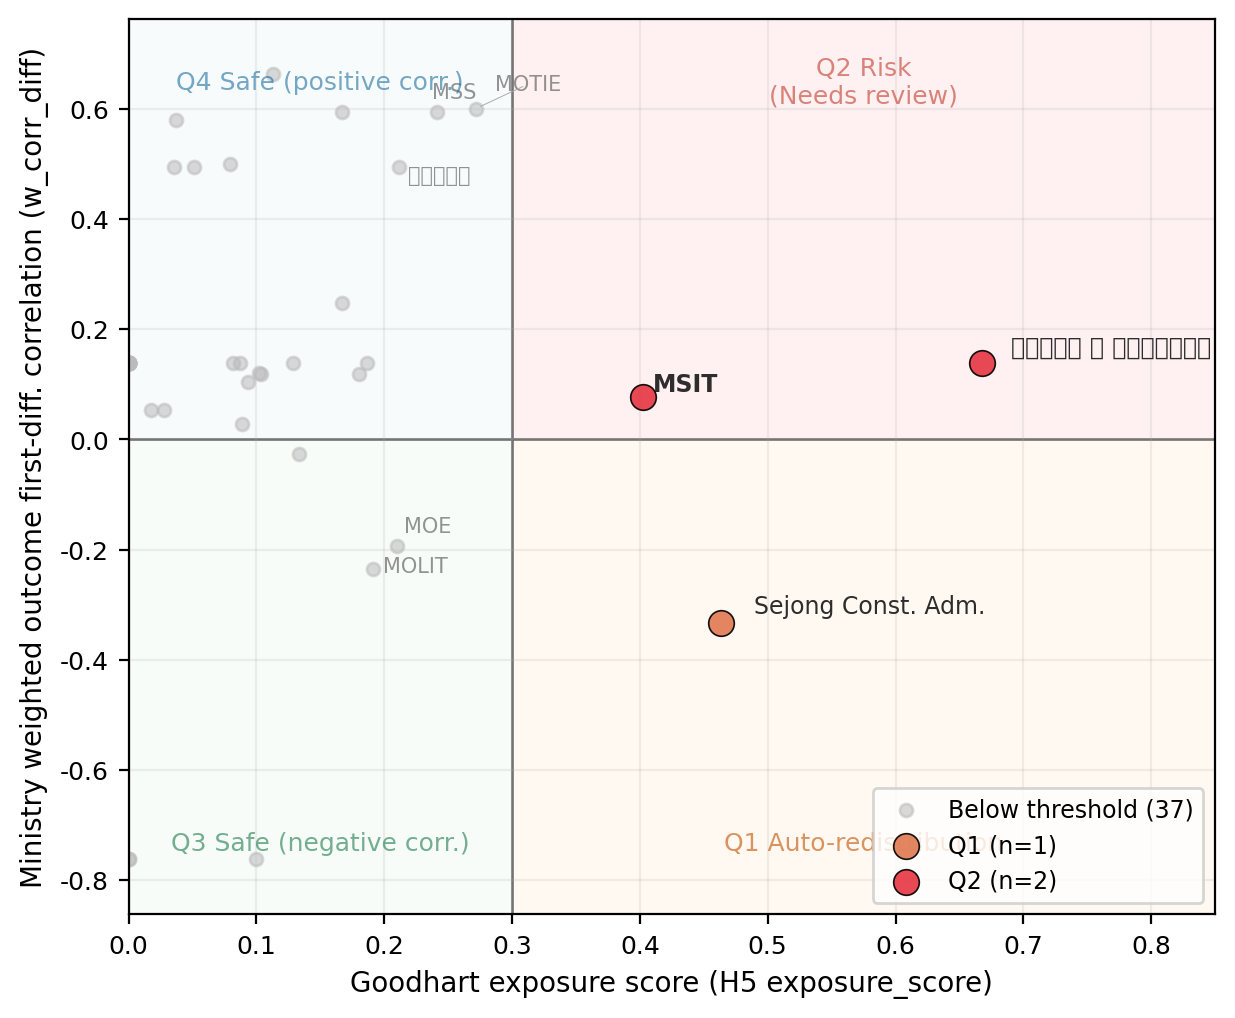
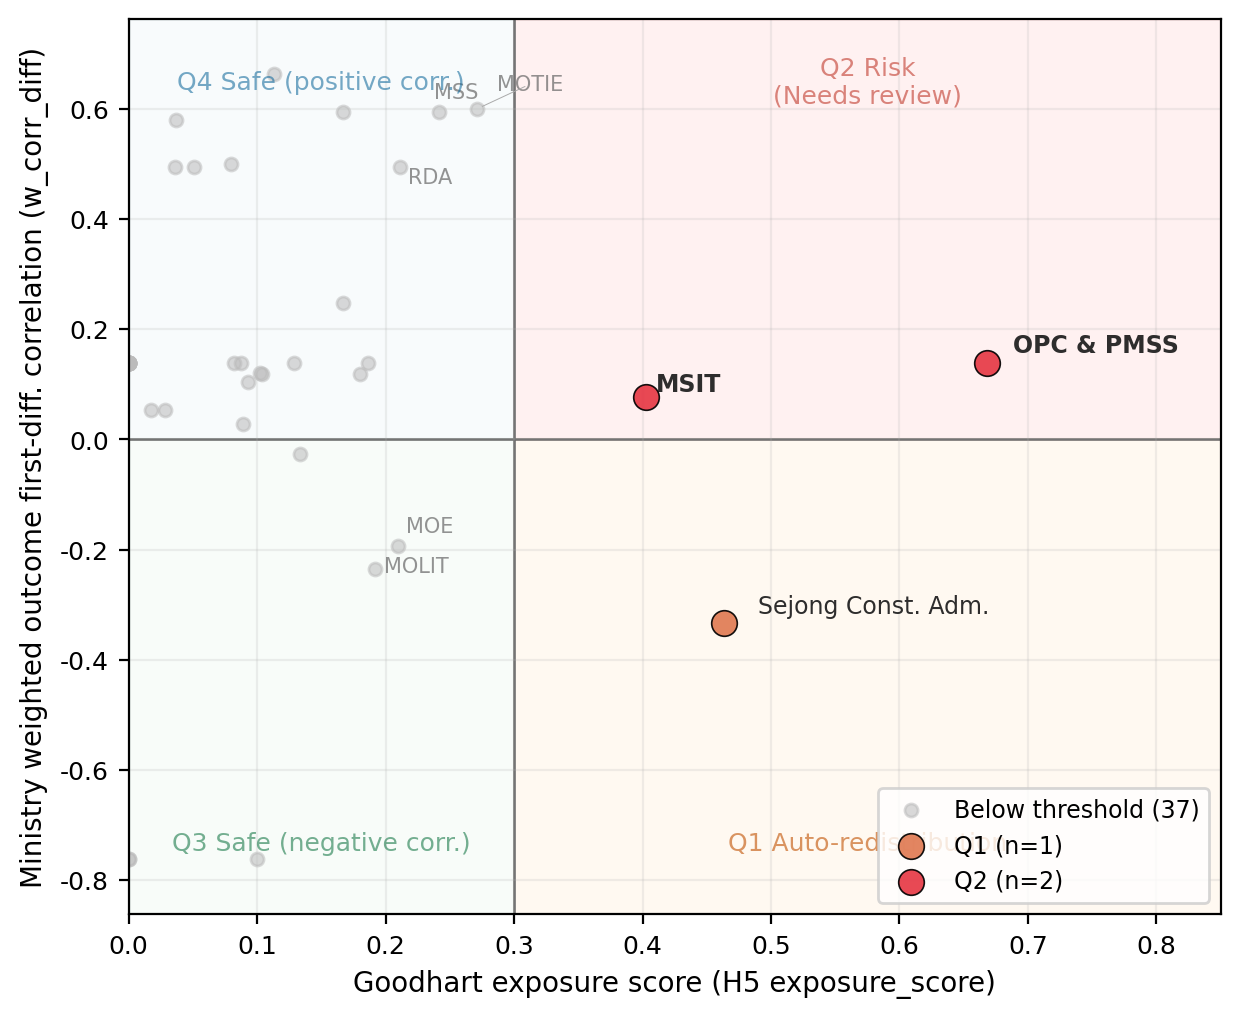
영문판 잔존 한국어 정리: 한글 ref 영문화 + 차트 부처/분야명 매핑 보강
1. 한글 reference 3건 영문 transliteration (Zenodo 국제 검색 노출용):
   - kim2009pbs: Kim & Lee (2009). Multitasking Problems in Public Agency
     Performance Evaluation: Combined Effects of PBS and BSC [in Korean].
     Korean Public Administration Review [Han'guk Haengjeong Hakbo].
   - park2014pbs: Park (2014). The PBS and Performance Distortion in Public
     R&D Institutions [in Korean]. Korea Policy Studies Review.
   - lim2020kpi: Lim, Chae & Jeong (2020). KPI Gaming in the Korean Public
     Sector [in Korean]. Korean Public Administration Review.

2. 차트 부처명 매핑 누락 보강 (h14_quadrant):
   - "국무조정실 및 국무총리비서실" → OPC & PMSS (긴 형태 추가)
   - "농촌진흥청" → RDA (누락분 추가)
   - 51개 부처 dict 전부 정비 + 5개 legacy 부처명 alias

3. 차트 분야명 매핑 누락 보강 (h10, h22 field, fig01 UMAP, fig02 Mapper):
   - "농림수산" alias 추가 ('농림수산식품'만 있던 곳)
   - "문화및관광", "국토및지역개발", "교통및물류", "공공질서및안전" 등 CSV
     full-form 분야명 누락분 보강 (fig01, fig02)

4. 재실행 후 figures_en/ 갱신 (h14_quadrant, h10_cpi_control, h22_rdd_field,
   h3_umap, h4_mapper_amp, h4_mapper_cluster).

검증: 페이지 31, 35, 37, 43, 64, 68 모두 한국어 잔존 0, 영문 라벨 정상 렌더.

diff --git a/scripts/redo_fig10_quadrant_en.py b/scripts/redo_fig10_quadrant_en.py
@@ -54,25 +54,67 @@ OUTCOME_MAP = {
 }
 
 # Ministry name translation map (Korean → English abbreviation)
+# 51 ministries from H5_ministry_exposure_11y.csv + common variants
 MINISTRY_EN = {
-    '국무조정실': 'OPC',
+    '감사원': 'BAI',
+    '경찰청': 'KNPA',
+    '고용노동부': 'MOEL',
+    '공정거래위원회': 'KFTC',
     '과학기술정보통신부': 'MSIT',
-    '행정중심복합도시건설청': 'Sejong Const. Adm.',
-    '기획재정부': 'MOEF',
+    '관세청': 'KCS',
     '교육부': 'MOE',
-    '보건복지부': 'MOHW',
-    '환경부': 'ME',
-    '국토교통부': 'MOLIT',
-    '농림축산식품부': 'MAFRA',
-    '외교부': 'MOFA',
-    '통일부': 'MOU',
-    '법무부': 'MOJ',
-    '국방부': 'MND',
-    '행정안전부': 'MOIS',
-    '산업통상자원부': 'MOTIE',
-    '중소벤처기업부': 'MSS',
-    '문화체육관광부': 'MCST',
     '국가보훈처': 'MPVA',
+    '국가인권위원회': 'NHRC',
+    '국무조정실': 'OPC',
+    '국무조정실 및 국무총리비서실': 'OPC & PMSS',
+    '국무총리비서실': 'PMSS',
+    '국민권익위원회': 'ACRC',
+    '국방부': 'MND',
+    '국세청': 'NTS',
+    '국토교통부': 'MOLIT',
+    '국회': 'NA',
+    '금융위원회': 'FSC',
+    '기상청': 'KMA',
+    '기획재정부': 'MOEF',
+    '농림축산식품부': 'MAFRA',
+    '농촌진흥청': 'RDA',
+    '대법원': 'SCK',
+    '대통령비서실 및 국가안보실': 'OPB & NSO',
+    '문화재청': 'CHA',
+    '문화체육관광부': 'MCST',
+    '민주평화통일자문회의': 'NUAC',
+    '방송통신위원회': 'KCC',
+    '방위사업청': 'DAPA',
+    '법무부': 'MOJ',
+    '법제처': 'MOLEG',
+    '병무청': 'MMA',
+    '보건복지부': 'MOHW',
+    '산림청': 'KFS',
+    '산업통상자원부': 'MOTIE',
+    '소방청': 'NFA',
+    '식품의약품안전처': 'MFDS',
+    '여성가족부': 'MOGEF',
+    '외교부': 'MOFA',
+    '원자력안전위원회': 'NSSC',
+    '인사혁신처': 'MPM',
+    '조달청': 'PPS',
+    '중소벤처기업부': 'MSS',
+    '중앙선거관리위원회': 'NEC',
+    '통계청': 'KOSTAT',
+    '통일부': 'MOU',
+    '특허청': 'KIPO',
+    '해양경찰청': 'KCG',
+    '해양수산부': 'MOF',
+    '행정안전부': 'MOIS',
+    '행정중심복합도시건설청': 'Sejong Const. Adm.',
+    '헌법재판소': 'CC',
+    '환경부': 'ME',
+    # Aliases / legacy ministry names
+    '미래창조과학부': 'MSIP',
+    '산업통상부': 'MOTIE',
+    '중소기업청': 'SMBA',
+    '행정자치부': 'MOIS',
+    '국가보훈부': 'MPVA',
 }
 
 con = duckdb.connect(DB, read_only=True)

diff --git a/scripts/redo_fig05_cpi_en.py b/scripts/redo_fig05_cpi_en.py
@@ -50,6 +50,7 @@ SHORT_EN = {
     '과학기술': 'S&T',
     '교육': 'Education',
     '농림수산식품': 'Agriculture',
+    '농림수산': 'Agriculture',
     '환경': 'Environment',
     '통신': 'ICT',
     '국방': 'Defense',
@@ -70,6 +71,7 @@ FULL_EN = {
     '과학기술': 'S&T',
     '교육': 'Education',
     '농림수산식품': 'Agriculture',
+    '농림수산': 'Agriculture',
     '환경': 'Environment',
     '통신': 'ICT',
     '국방': 'Defense',

diff --git a/scripts/redo_fig02_mapper_en.py b/scripts/redo_fig02_mapper_en.py
@@ -50,6 +50,7 @@ CLU_LABEL = {0: 'Personnel (n=129)', 1: 'Capital-Acq. (n=99)',
 # English field name mapping
 FIELD_EN = {
     '사회복지': 'Social Welfare',
+    '문화및관광': 'Culture & Tourism',
     '보건': 'Health',
     '과학기술': 'S&T',
     '산업·중소기업및에너지': 'Industry/SMEs',

diff --git a/scripts/redo_fig01_umap_en.py b/scripts/redo_fig01_umap_en.py
@@ -49,6 +49,7 @@ CLUSTER_EN = {-1: 'Noise', 0: 'Personnel', 1: 'Capital-Acq.',
 # English field name mapping
 FIELD_EN = {
     '사회복지': 'Social Welfare',
+    '문화및관광': 'Culture & Tourism',
     '보건': 'Health',
     '과학기술': 'S&T',
     '산업·중소기업및에너지': 'Industry/SMEs',

diff --git a/scripts/redo_fig08_field_en.py b/scripts/redo_fig08_field_en.py
@@ -49,6 +49,7 @@ SHORT_EN = {
     '보건': 'Health',
     '교육': 'Education',
     '농림수산식품': 'Agriculture',
+    '농림수산': 'Agriculture',
     '환경': 'Environment',
     '통신': 'ICT',
     '국방': 'Defense',
